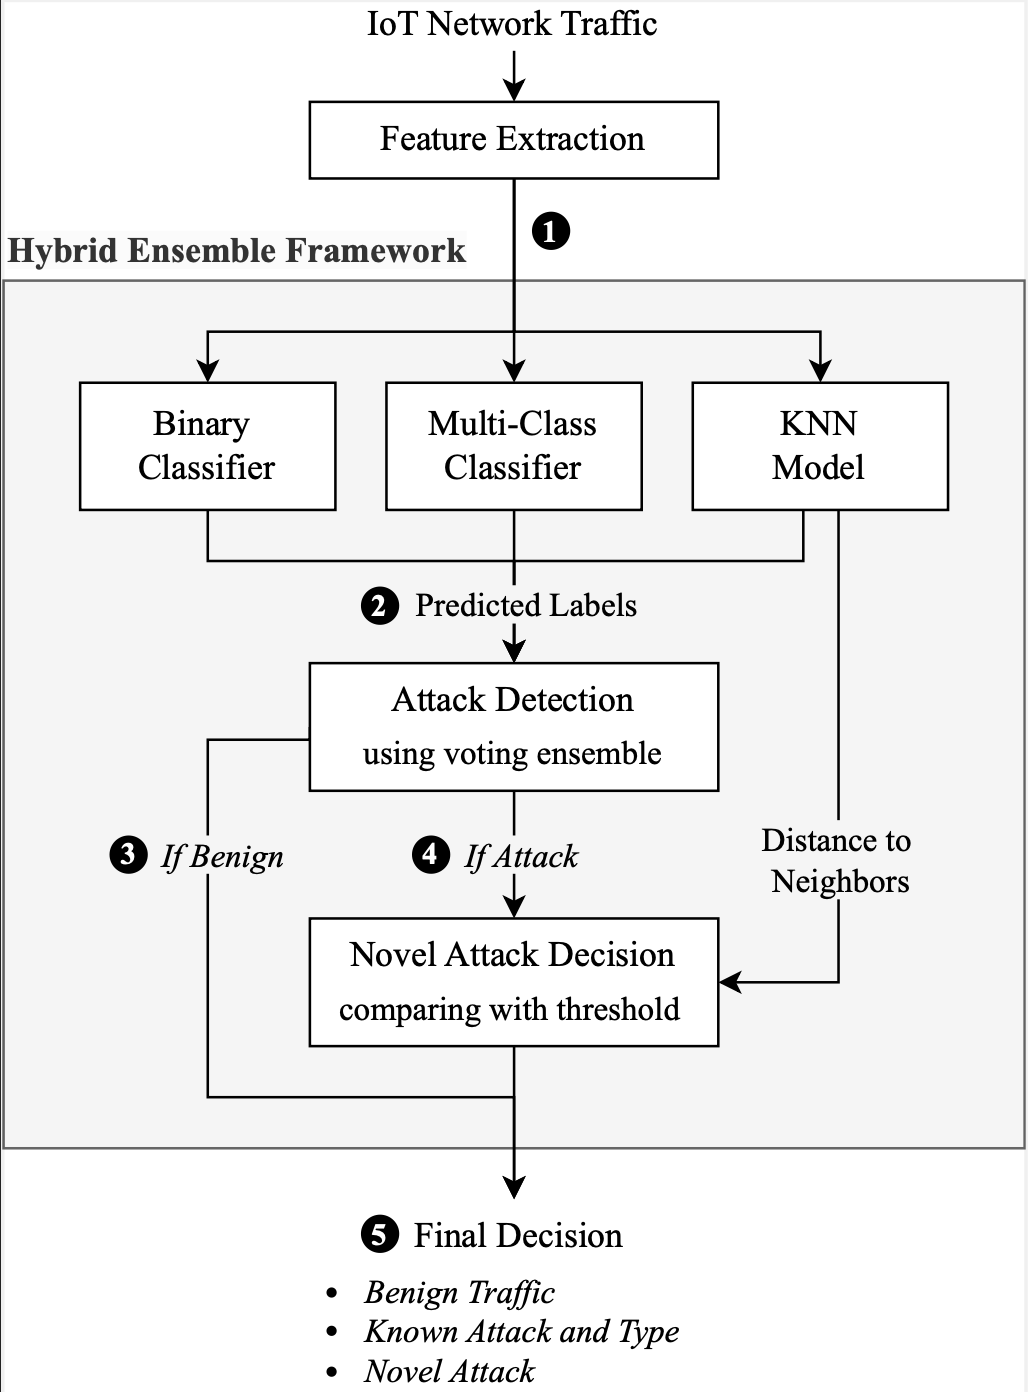
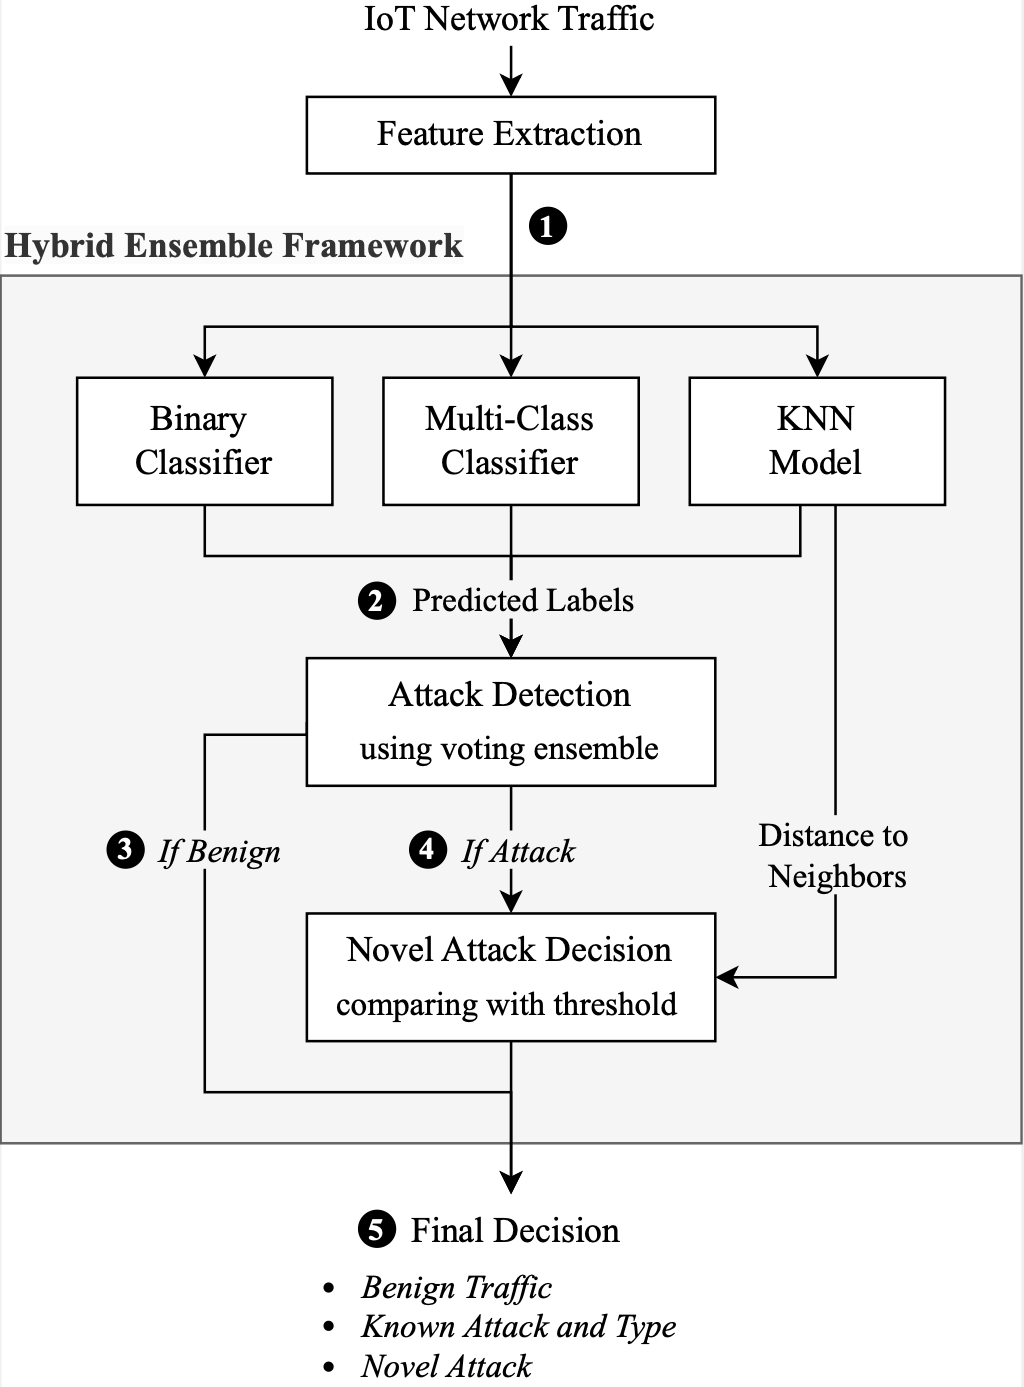
Update layout.

diff --git a/index.md b/index.md
@@ -11,9 +11,13 @@ This project was completed for my thesis, and the manuscript has been submitted 
 
 🛠 **Technologies Used**: Python, PyTorch, Pandas, Numpy, Scikit-learn, Matplotlib
 
-![Cybersecurity](https://img.shields.io/badge/-Cybersecurity-C0392B) ![Anomaly Detection](https://img.shields.io/badge/-Anomaly%20Detection-E91E63) ![Machine Learning](https://img.shields.io/badge/-Machine%20Learning-28A745)
+📄 [View Thesis Report (PDF)](/pdf/Novel_Attack_Detection_in_IoT_Network_Intrusion_Detection_Systems.pdf)
+\
+📄 [View Seminar Slide deck](/pdf/Novel_Attack_Detection_Seminar_Slides.pdf)
+\
+🔗 [View GitHub Repository](https://github.com/JoshuaWang8/novel-attack-nids)
 
-📄 [View Thesis Report (PDF)](/pdf/Novel_Attack_Detection_in_IoT_Network_Intrusion_Detection_Systems.pdf) | 🔗 [View GitHub Repository](https://github.com/JoshuaWang8/novel-attack-nids) | 📄 [View Seminar Slide deck](/pdf/Novel_Attack_Detection_Seminar_Slides.pdf)
+![Cybersecurity](https://img.shields.io/badge/-Cybersecurity-C0392B) ![Anomaly Detection](https://img.shields.io/badge/-Anomaly%20Detection-E91E63) ![Machine Learning](https://img.shields.io/badge/-Machine%20Learning-28A745)
 
 ---
 
@@ -23,9 +27,9 @@ Explored various link prediction methodologies to a graph dataset to predict fut
 
 🛠 **Technologies Used**: Python, PyTorch, Scikit-learn, Numpy, Pandas, NetworkX
 
-![Graph Theory](https://img.shields.io/badge/-Graph%20Theory-F39C12) ![Machine Learning](https://img.shields.io/badge/-Machine%20Learning-28A745)
+🔗 [View GitHub Repository](https://github.com/JoshuaWang8/link-prediction)
 
-📄 [View Project Details](/pages/link_prediction/link_prediction.md) | 🔗 [View GitHub Repository](https://github.com/JoshuaWang8/link-prediction)
+![Graph Theory](https://img.shields.io/badge/-Graph%20Theory-F39C12) ![Machine Learning](https://img.shields.io/badge/-Machine%20Learning-28A745)
 
 ---
 
@@ -35,9 +39,11 @@ Analyzed Facebook ad strategies used by politicians in the 2022 Australian Feder
 
 🛠 **Technologies Used**: PySpark, Python, Pandas, Matplotlib
 
-![Distributed Computing](https://img.shields.io/badge/-Distributed%20Computing-17A2B8) ![Data Analysis](https://img.shields.io/badge/-Data%20Analysis-16A085)
+📄 [View Project Details](/pdf/Political_Ad_Analysis.pdf)
+\
+🔗 [View GitHub Repository](https://github.com/JoshuaWang8/political-ads-analysis)
 
-📄 [View Project Details](/pdf/Political_Ad_Analysis.pdf) | 🔗 [View GitHub Repository](https://github.com/JoshuaWang8/political-ads-analysis)
+![Distributed Computing](https://img.shields.io/badge/-Distributed%20Computing-17A2B8) ![Data Analysis](https://img.shields.io/badge/-Data%20Analysis-16A085)
 
 ---
 
@@ -47,9 +53,9 @@ Implemented Betweenness Centrality and PageRank Centrality to identify influenti
 
 🛠 **Technologies Used**: Python, NetworkX, Numpy, Matplotlib
 
-![Graph Theory](https://img.shields.io/badge/-Graph%20Theory-F39C12)
+🔗 [View GitHub Repository](https://github.com/JoshuaWang8/centrality-measures)
 
-📄 [View Project Details](/pages/centrality_measures/centrality_measures.md) | 🔗 [View GitHub Repository](https://github.com/JoshuaWang8/centrality-measures)
+![Graph Theory](https://img.shields.io/badge/-Graph%20Theory-F39C12)
 
 ---
 
@@ -60,9 +66,9 @@ Led a team of six to develop **apha.ai**, a web application assisting patients w
 
 🛠 **Technologies Used**: React.js, Javascript, Python, TensorFlow, PyTorch
 
-![NLP](https://img.shields.io/badge/-Natural%20Language%20Processing-E74C3C) ![Web Development](https://img.shields.io/badge/-Web%20Development-E67E22) ![Deep Learning](https://img.shields.io/badge/-Deep%20Learning-8E44AD)
-
 🔗 [View GitHub Repository](https://github.com/JoshuaWang8/apha-ai)
+
+![NLP](https://img.shields.io/badge/-Natural%20Language%20Processing-E74C3C) ![Web Development](https://img.shields.io/badge/-Web%20Development-E67E22) ![Deep Learning](https://img.shields.io/badge/-Deep%20Learning-8E44AD)
 
 ---
 
@@ -72,9 +78,9 @@ Implemented k-Nearest Neighbors, Logistic Regression, and Neural Networks to cla
 
 🛠 **Technologies Used**: Python, Pandas, Numpy, Scikit-learn, Matplotlib
 
-![Machine Learning](https://img.shields.io/badge/-Machine%20Learning-28A745) ![Deep Learning](https://img.shields.io/badge/-Deep%20Learning-8E44AD)
-
 📄 [View Report (PDF)](/pdf/Food-Classification-Report.pdf)
+
+![Machine Learning](https://img.shields.io/badge/-Machine%20Learning-28A745) ![Deep Learning](https://img.shields.io/badge/-Deep%20Learning-8E44AD)
 
 ---
 
@@ -84,8 +90,8 @@ Developed a Vision Transformer model with Shifted Patch Tokenization and Local S
 
 🛠 **Technologies Used**: TensorFlow, Python, Matplotlib
 
-![Deep Learning](https://img.shields.io/badge/-Deep%20Learning-8E44AD)
-
 🔗 [View GitHub Repository](https://github.com/JoshuaWang8/PatternFlow/tree/topic-recognition/recognition/46965611-ADNI-Brain-Visual-Transformer)
+
+![Deep Learning](https://img.shields.io/badge/-Deep%20Learning-8E44AD)
 
 ---
